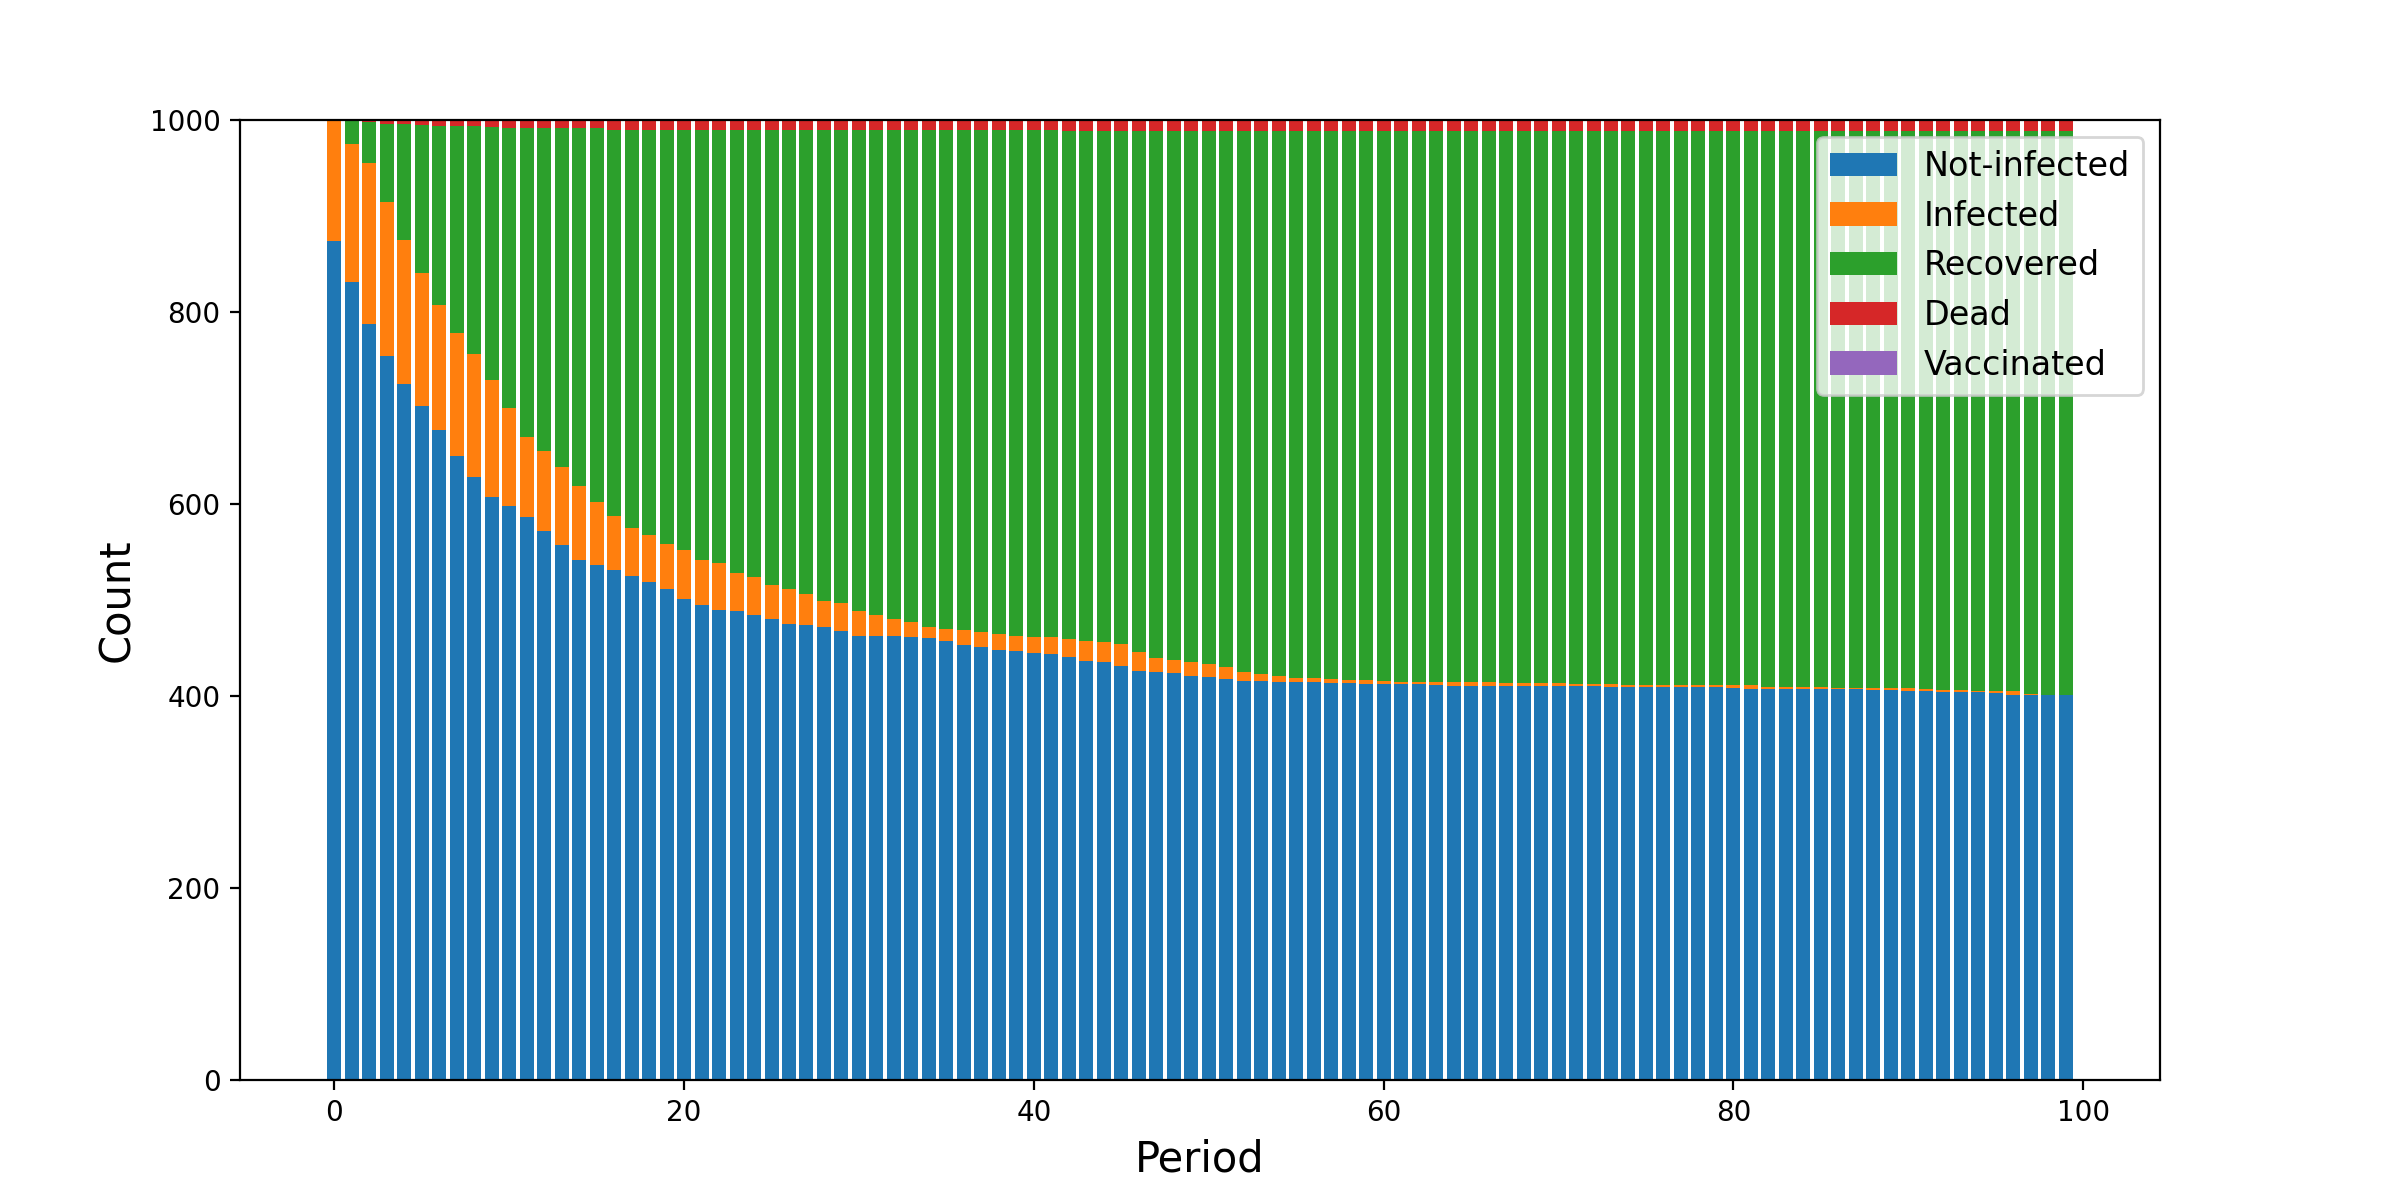
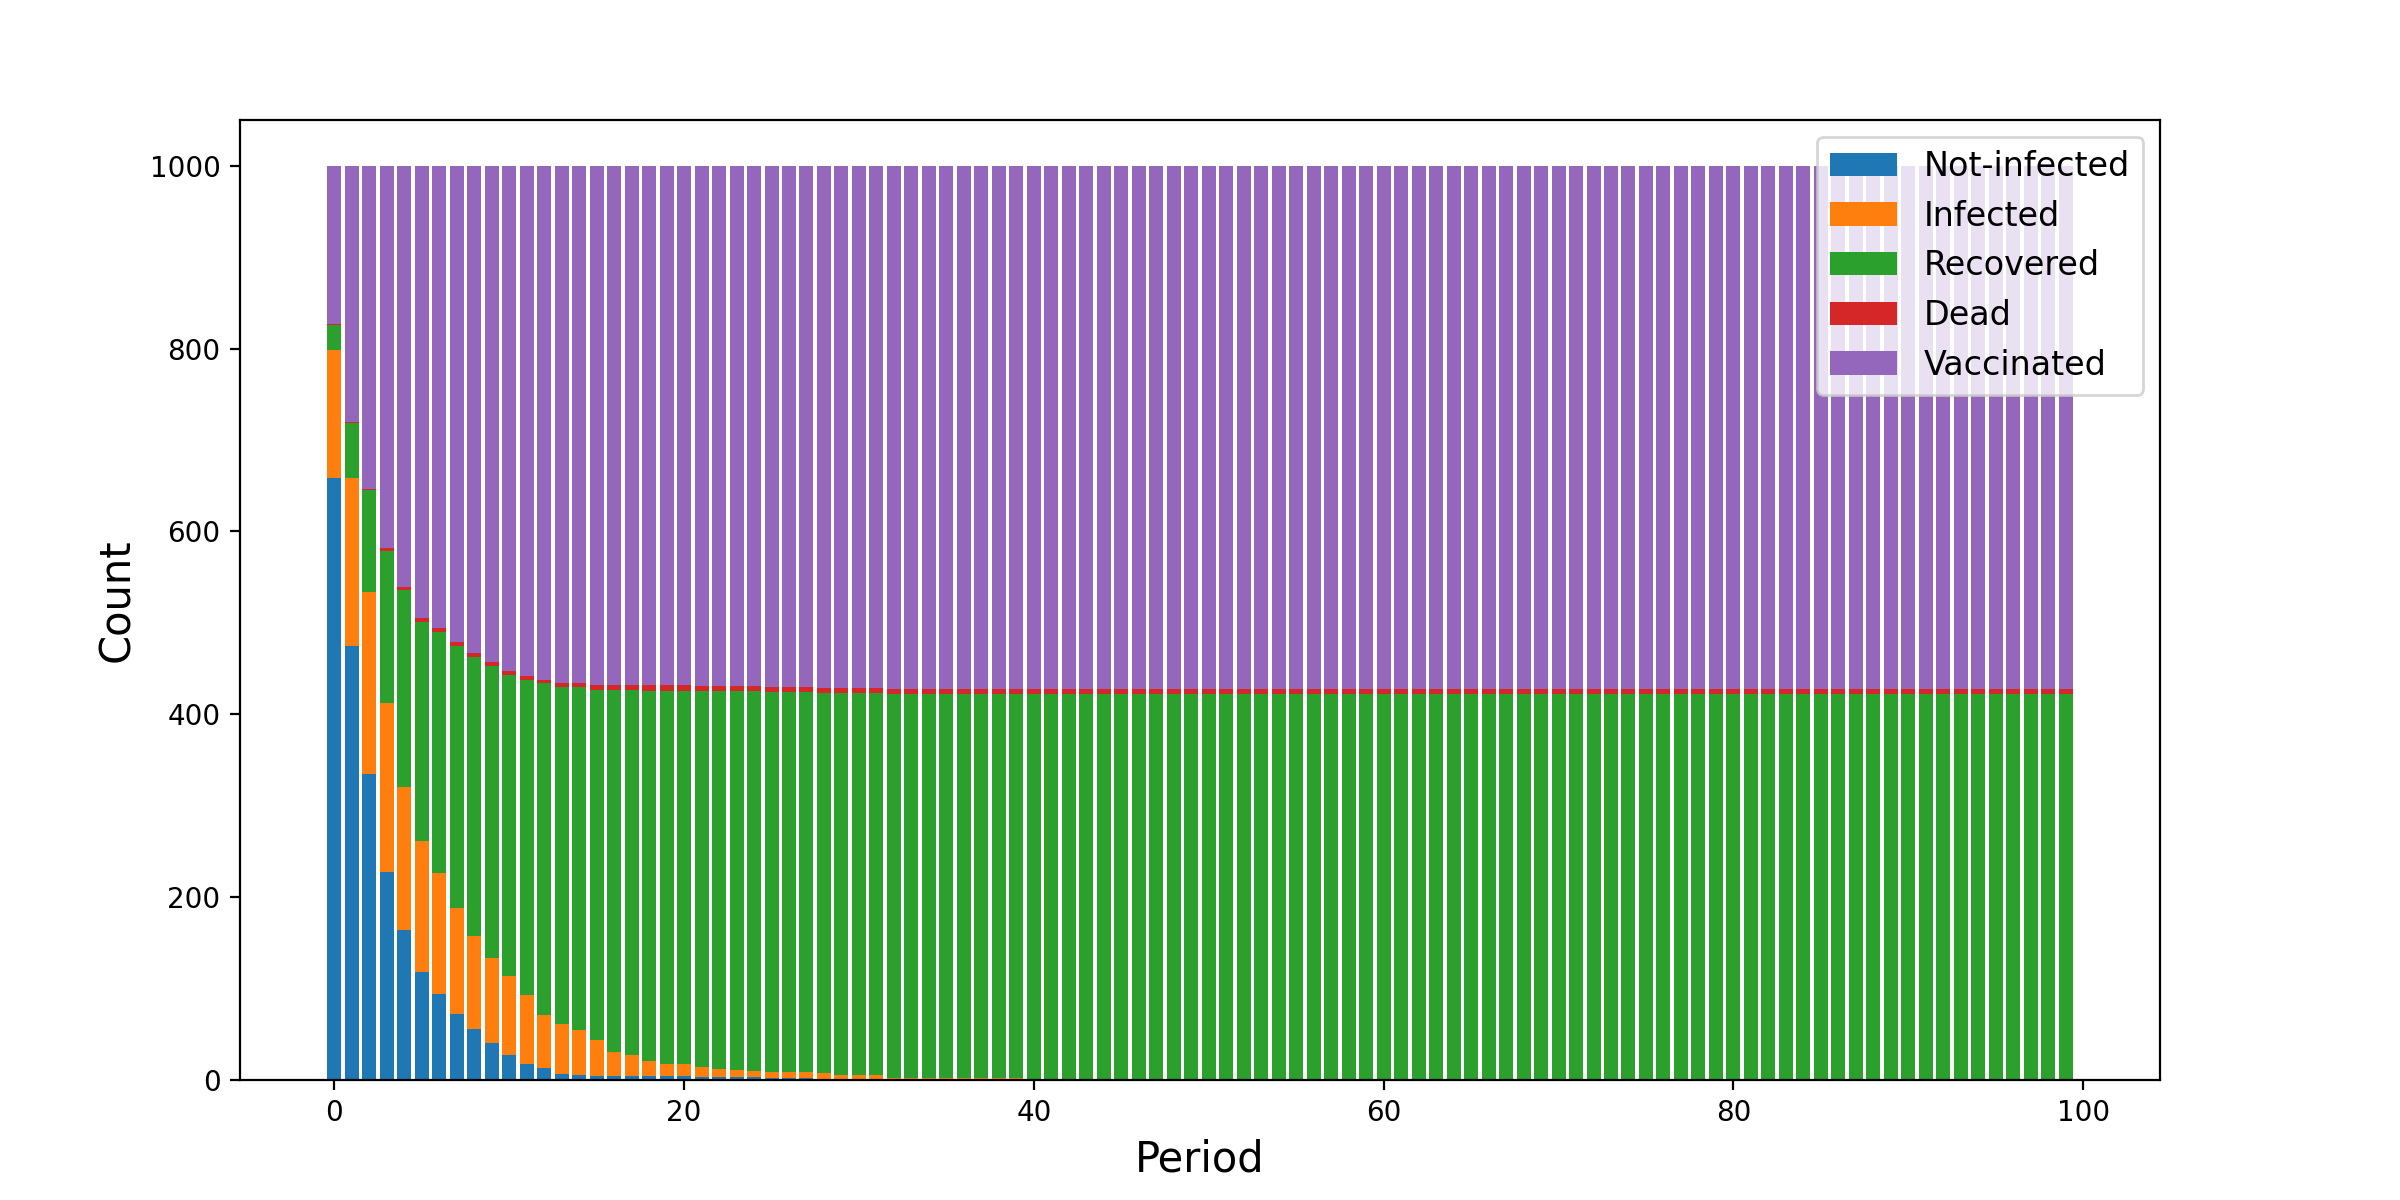
covid example finished

diff --git a/tutorial/CovidContagion/source/agent.py b/tutorial/CovidContagion/source/agent.py
@@ -37,9 +37,9 @@ class CovidAgent(GridAgent):
     def infect_from_neighbors(self, grid: "CovidGrid", agents: "AgentList[CovidAgent]"):
         infection_prob = self.scenario.get_infection_prob(self.health_state)
         if infection_prob > 0:
-            neighbors_info = grid.get_neighbors(self.x, self.y)  # 还是叫get_neighbors吧，加上info也不知道具体是什么info
-            for agent_category, agent_id in neighbors_info:
-                neighbor_agent: "CovidAgent" = agents.get_agent(agent_id)
+            neighbors = grid.get_neighbors(self.x, self.y)  # 还是叫get_neighbors吧，加上info也不知道具体是什么info
+            for neighbor_category, neighbor_id in neighbors:
+                neighbor_agent: "CovidAgent" = agents.get_agent(neighbor_id)
                 if neighbor_agent.health_state == 1 and random.uniform(0, 1) < infection_prob:
                     self.health_state = 1
                     break
@@ -49,11 +49,16 @@ class CovidAgent(GridAgent):
             if random.uniform(0, 1) <= self.scenario.vaccination_ad_success_prob:
                 self.vaccination_trust_state = 1
 
-    def update_vaccination_trust_from_neighbors(self, network: "CovidNetwork"):
+    def update_vaccination_trust_from_neighbors(self, network: "CovidNetwork", agents: "AgentList[CovidAgent]"):
         if self.vaccination_trust_state == 0:
-            neighbors = network.get_neighbors()
-            for neighbor in neighbors:
-                pass
+            neighbors = network.get_neighbors(self)
+            neighbor_trust_count = 0
+            for neighbor_category, neighbor_id in neighbors:
+                neighbor_agent = agents.get_agent(neighbor_id)
+                if neighbor_agent.vaccination_trust_state == 1:
+                    neighbor_trust_count += 1
+            if neighbor_trust_count / len(neighbors) >= self.scenario.vaccination_neighbor_success_threshold:
+                self.vaccination_trust_state = 1
 
     def take_vaccination(self):
         if self.health_state == 0:

diff --git a/tutorial/CovidContagion/source/model.py b/tutorial/CovidContagion/source/model.py
@@ -27,19 +27,23 @@ class CovidModel(Model):
         self.agents.setup_agents(self.scenario.agent_num, self.scenario.get_dataframe(data_info.agent_params))
         self.grid.setup_params(self.scenario.grid_x_size, self.scenario.grid_y_size)
         self.grid.setup_agent_locations(self.agents)
-        self.network.setup_agent_connections([self.agents], "barabasi_albert_graph", {"m": 1})
 
-        # self.network.set_network_type(self.scenario.network_type)
-        # self.network.set_network_params({'k': self.scenario.network_param_k, 'p': self.scenario.network_param_p})
-        # self.network.setup_agent_connections(self.agents)
+        if self.scenario.network_type == "barabasi_albert_graph":
+            network_params = {"m": self.scenario.network_param_m}
+        elif self.scenario.network_type == "watts_strogatz_graph":
+            network_params = {"k": self.scenario.network_param_k,
+                              "p": self.scenario.network_param_p}
+        else:
+            raise NotImplementedError
+        self.network.setup_agent_connections([self.agents], self.scenario.network_type, network_params)
 
     def run(self):
         for t in self.iterator(self.scenario.periods):
             for hour in range(0, self.scenario.period_hours):
                 self.environment.agents_move(self.agents)
                 self.environment.agents_infection(self.agents, self.grid)
-            # self.environment.agents_update_vaccination_trust(self.agents, self.network)
-            # self.environment.agents_take_vaccination(self.agents)
+            self.environment.agents_update_vaccination_trust(self.agents, self.network)
+            self.environment.agents_take_vaccination(self.agents)
             self.environment.agents_health_state_transition(self.agents)
             self.environment.calc_population_infection_state(self.agents)
             self.data_collector.collect(t)

diff --git a/tutorial/CovidContagion/source/data_info.py b/tutorial/CovidContagion/source/data_info.py
@@ -16,14 +16,14 @@ simulator_scenarios = DataFrameInfo(
         "grid_y_size": sqlalchemy.Integer(),
         "initial_infected_percentage": sqlalchemy.Float(),
         "young_percentage": sqlalchemy.Float(),
-        "network_type": sqlalchemy.Integer(),
+        "network_type": sqlalchemy.String(),
         "network_param_k": sqlalchemy.Integer(),
         "network_param_p": sqlalchemy.Float(),
         "network_param_m": sqlalchemy.Integer(),
-        "network_param_threshold": sqlalchemy.Float(),
         "vaccination_trust_percentage": sqlalchemy.Float(),
         "vaccination_ad_percentage": sqlalchemy.Float(),
         "vaccination_ad_success_prob": sqlalchemy.Float(),
+        "vaccination_neighbor_success_threshold": sqlalchemy.Float(),
         "vaccination_action_prob": sqlalchemy.Float(),
         "infection_prob": sqlalchemy.Float(),
         "reinfection_prob": sqlalchemy.Float(),

diff --git a/tutorial/CovidContagion/source/scenario.py b/tutorial/CovidContagion/source/scenario.py
@@ -11,14 +11,14 @@ class CovidScenario(Scenario):
         self.grid_y_size = 0
         self.initial_infected_percentage = 0.0
         self.young_percentage = 0.0
-        self.network_type = 0
+        self.network_type = ""
         self.network_param_k = 0
         self.network_param_p = 0.0
         self.network_param_m = 0
-        self.network_param_threshold = 0.0
         self.vaccination_trust_percentage = 0.0
         self.vaccination_ad_percentage = 0.0
         self.vaccination_ad_success_prob = 0.0
+        self.vaccination_neighbor_success_threshold = 0.0
         self.vaccination_action_prob = 0.0
         self.infection_prob = 0.0
         self.reinfection_prob = 0.0

diff --git a/tutorial/CovidContagion/source/environment.py b/tutorial/CovidContagion/source/environment.py
@@ -33,7 +33,7 @@ class CovidEnvironment(Environment):
         for agent in agents:
             if random.uniform(0, 1) <= self.scenario.vaccination_ad_percentage:
                 agent.update_vaccination_trust_from_ad()
-            agent.update_vaccination_trust_from_neighbors(network)
+            agent.update_vaccination_trust_from_neighbors(network, agents)
 
     @staticmethod
     def agents_take_vaccination(agents: "AgentList[CovidAgent]"):

diff --git a/tutorial/CovidContagion/run_analyzer.py b/tutorial/CovidContagion/run_analyzer.py
@@ -4,4 +4,5 @@ from source.analyzer import CovidAnalyzer
 if __name__ == "__main__":
 
     analyzer = CovidAnalyzer(config)
-    analyzer.plot_health_state_share()
+    analyzer.plot_health_state_share(scenario_id=0)
+    analyzer.plot_health_state_share(scenario_id=1)
